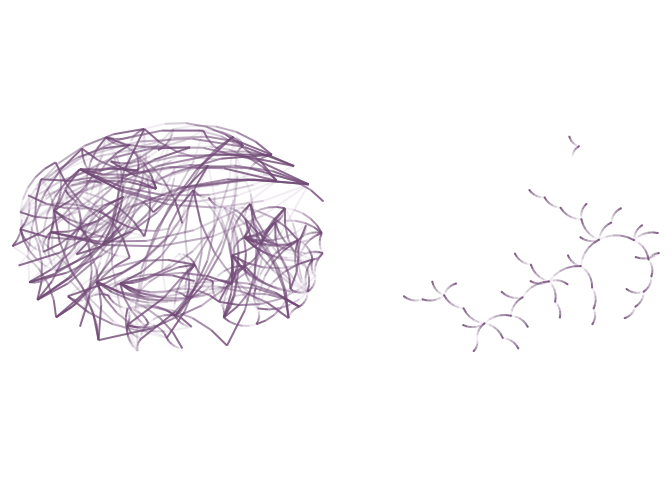
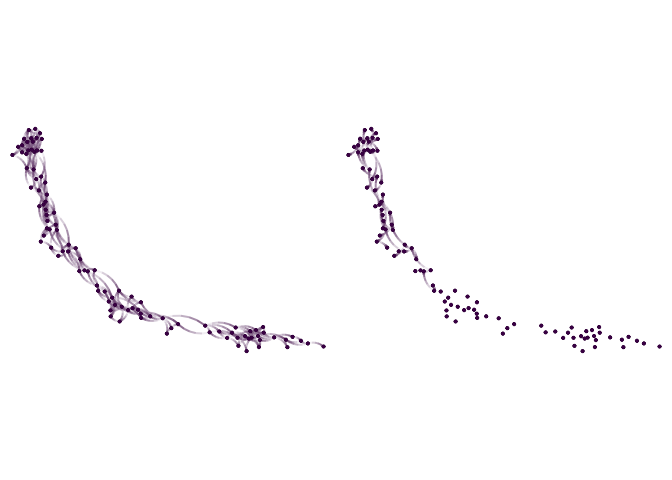
Better viz

diff --git a/model-contact-tracing/README.md b/model-contact-tracing/README.md
@@ -105,8 +105,8 @@ summary(mymodel)
     Number of entities  : 0
     Days (duration)     : 50 (of 50)
     Number of viruses   : 1
-    Last run elapsed t  : 104.00µs
-    Last run speed      : 48.08 million agents x day / second
+    Last run elapsed t  : 74.00µs
+    Last run speed      : 67.57 million agents x day / second
     Rewiring            : off
 
     Global events:
@@ -176,10 +176,10 @@ tnet <- graph_from_data_frame(
 )
 
 set.seed(44)
-lo <- layout_nicely(tnet)
+lo <- layout_nicely(intergraph::asIgraph(g))
 
-p1 <- nplot(g, layout = lo, skip.vertex = TRUE)
-p2 <- nplot(tnet, layout = lo, skip.vertex=TRUE)
+p1 <- nplot(g, layout = lo, skip.vertex = FALSE, vertex.size = 1, vertex.size.range = c(.01, .01), vertex.label = NA)
+p2 <- nplot(tnet, layout = lo, skip.vertex=FALSE, vertex.size = 1, vertex.size.range = c(.01, .01), vertex.label = NA)
 
 gridExtra::grid.arrange(p1, p2, ncol = 2)
 ```
